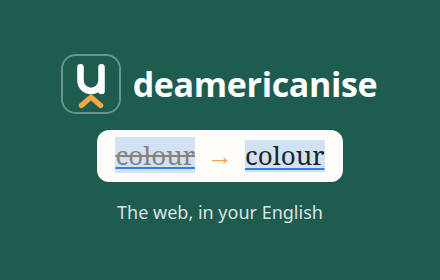
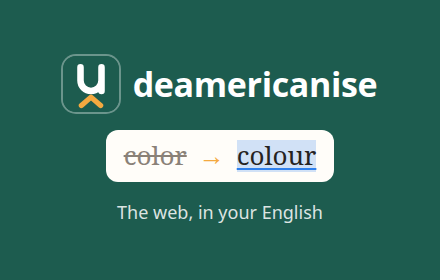
fix: keep the extension off the American word in the promo tile

Changed region(s): [[0.2068, 0.4571, 0.4432, 0.6571], [0.4727, 0.4571, 0.7977, 0.6571]]

diff --git a/extension/store/promo.html b/extension/store/promo.html
@@ -42,7 +42,8 @@
 </head>
 <body>
   <div class="name"><img src="../icons/icon.svg" alt="">deamericanise</div>
-  <div class="example"><s>color</s><span class="arrow">→</span><b>colour</b></div>
+  <!-- translate="no" keeps the extension, which runs during the capture, off the American word. -->
+  <div class="example"><s translate="no">color</s><span class="arrow">→</span><b>colour</b></div>
   <div class="tagline">The web, in your English</div>
 </body>
 </html>
